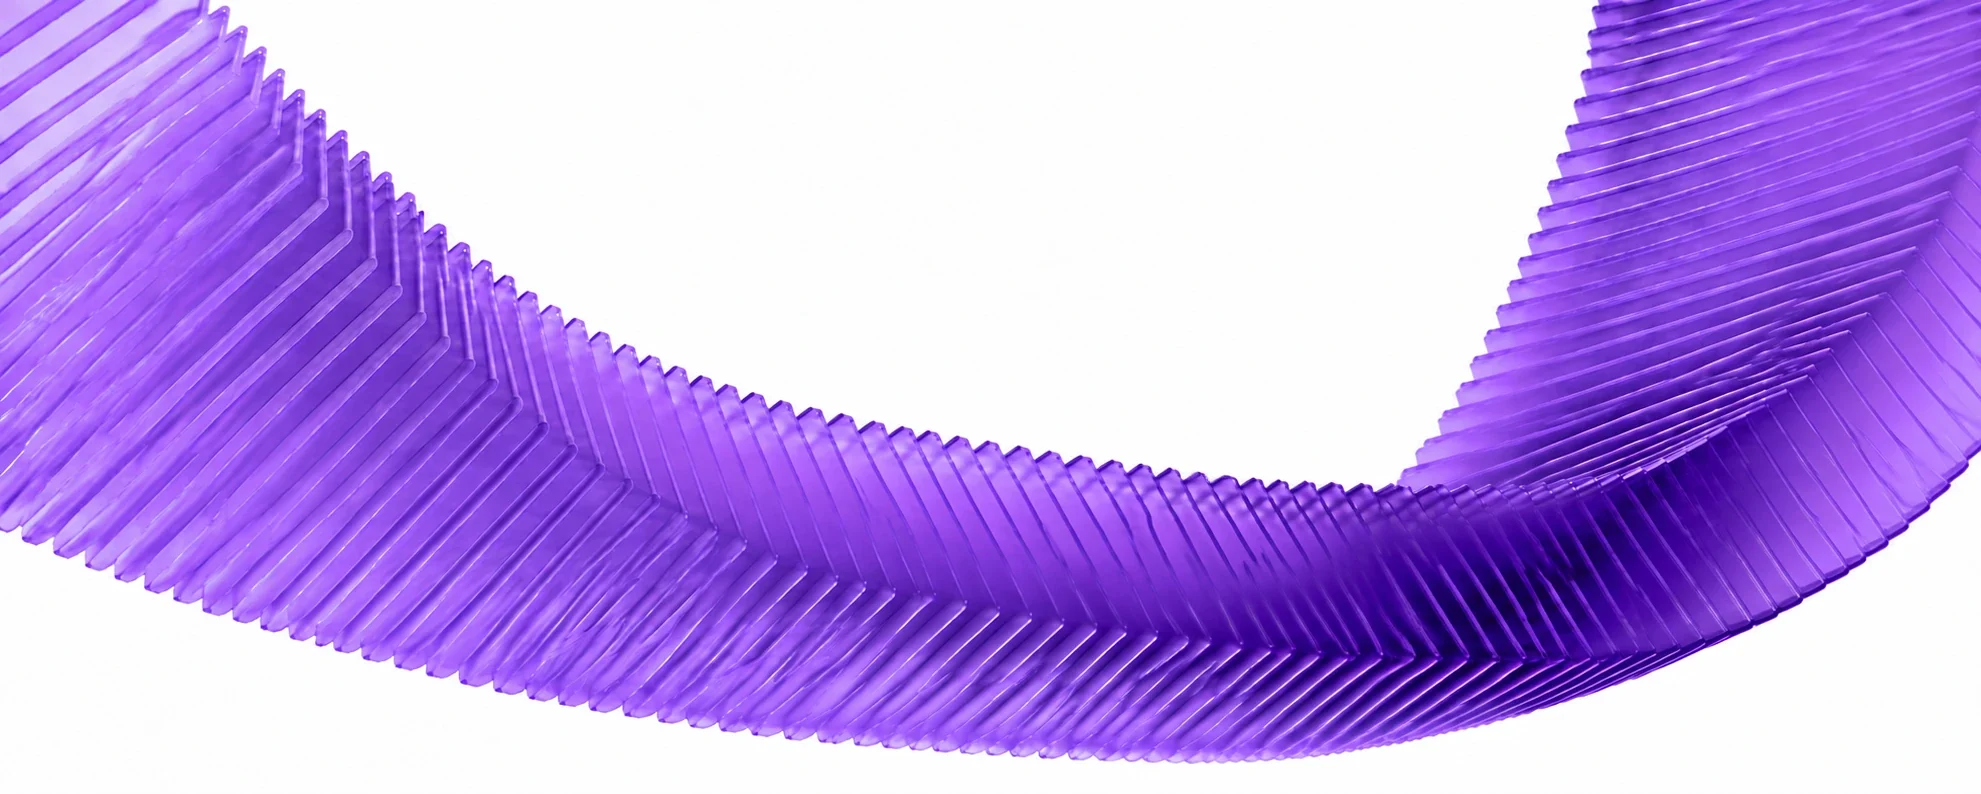
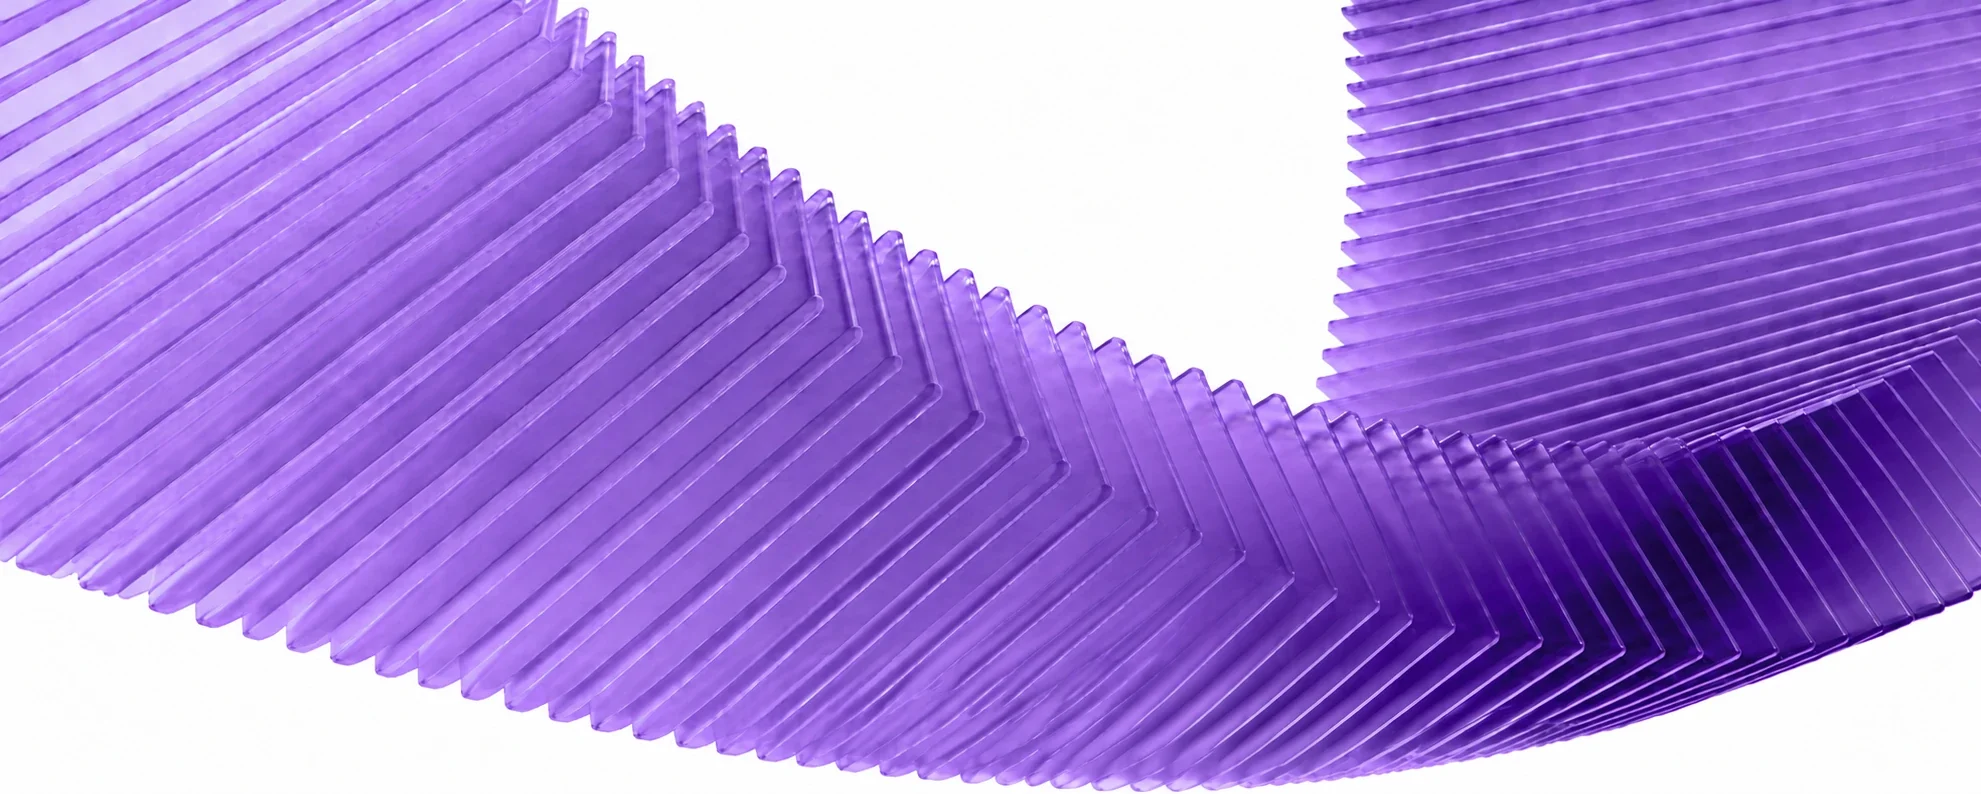
Abertura: troca a foto das lâminas e ajusta a assinatura ao roxo dela
Claude-Session: https://claude.ai/code/session_01RowSqNRkerTgDrzqNvXTa8

diff --git a/index-v2.html b/index-v2.html
@@ -191,9 +191,9 @@
     }
     .abertura-titulo span { -webkit-text-stroke-width: 0; letter-spacing: -0.01em; }
     .abertura-titulo em { font-style: normal; color: #222222; letter-spacing: -0.01em; -webkit-text-stroke-width: 0; }
-    /* 76% da altura da foto, no meio dela, e sempre faixa roxa (medido: roxo de 58% a 94%) */
+    /* 70% da altura da foto, no meio dela, e sempre faixa roxa (medido: roxo de 43% a 98%) */
     .abertura-assina {
-      position: absolute; left: 50%; top: 76%; transform: translate(-50%, -50%); width: max-content;
+      position: absolute; left: 50%; top: 70%; transform: translate(-50%, -50%); width: max-content;
       display: grid; gap: 2px; color: #fff; text-align: center; text-shadow: 0 1px 14px rgba(36,14,80,.45);
     }
     .abertura-assina strong { font-family: var(--recoleta); font-weight: 400; font-size: clamp(24px, 2vw, 32px); letter-spacing: 0; -webkit-text-stroke-width: 0; }
